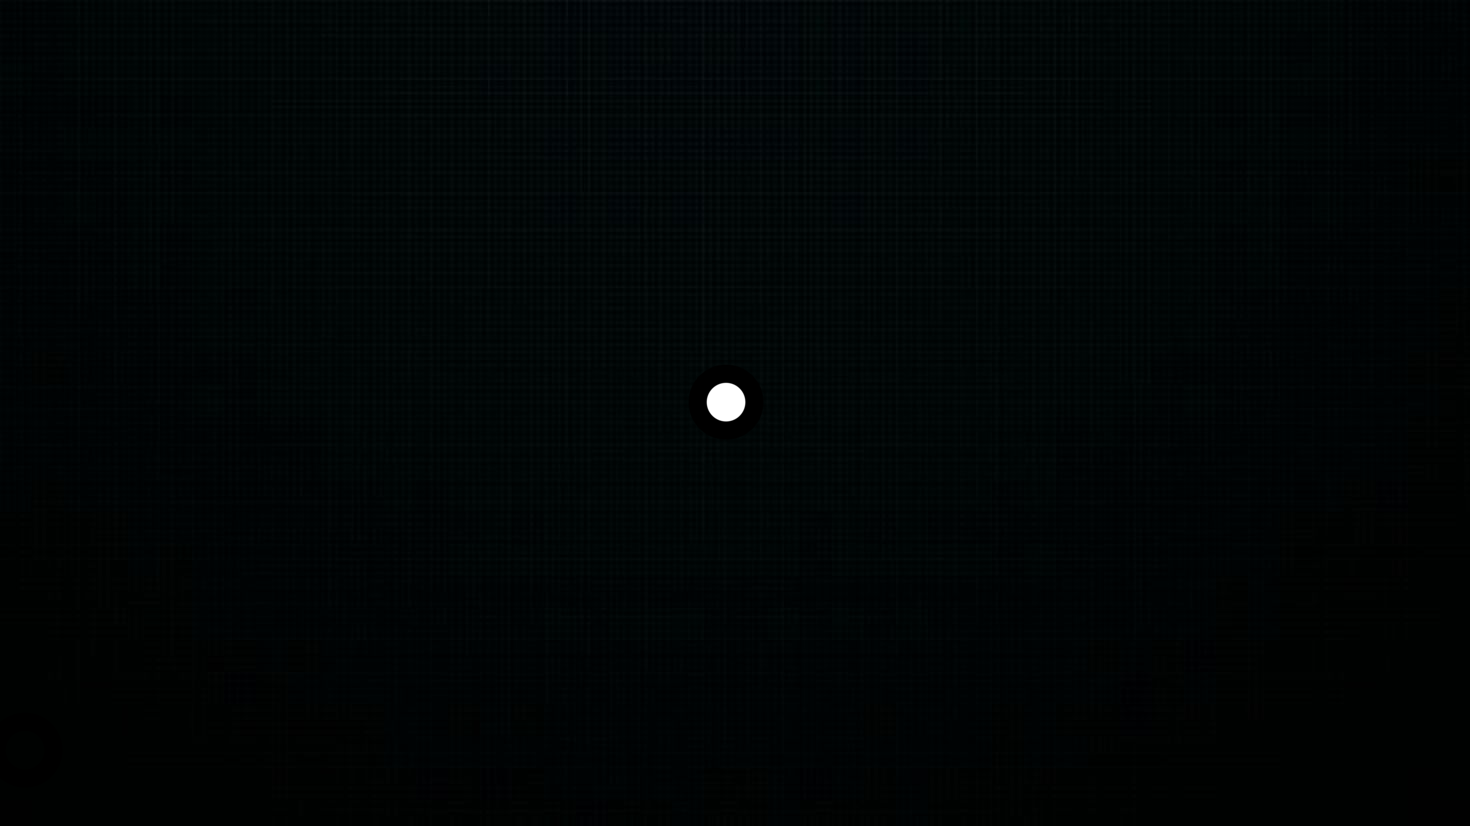
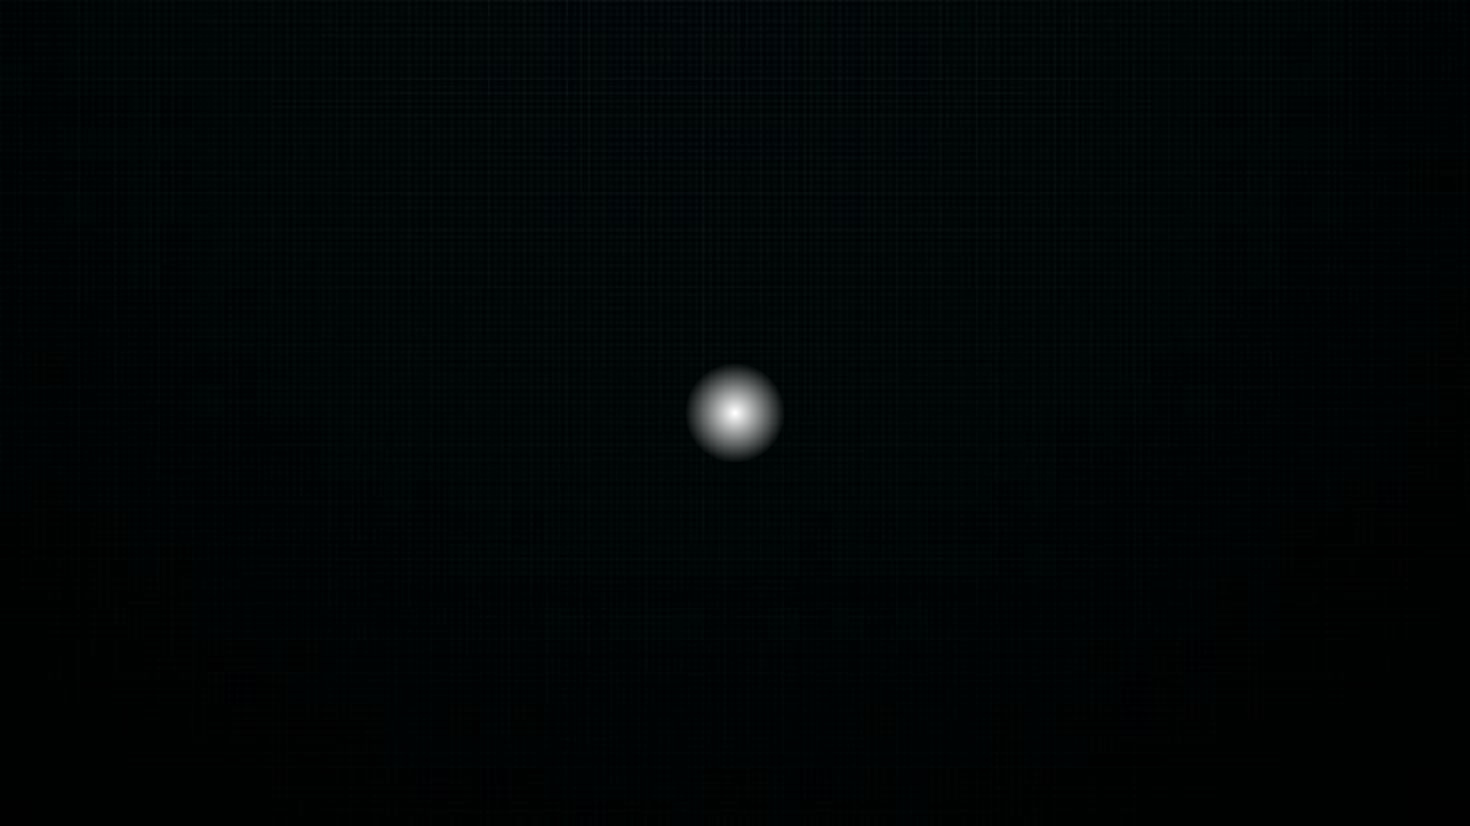
Merge origin/main into main
Conflicts:
	src/pacmanfx/Maze.java
	src/pacmanfx/Model.java

Changed region(s): [[0.4592, 0.4237, 0.551, 0.5751]]

diff --git a/src/pacmanfx/Model.java b/src/pacmanfx/Model.java
@@ -309,7 +309,7 @@ public class Model extends Application {
     }
     
     public void loadImages() {
-        blinded = new Image(getClass().getResourceAsStream("/images/test.png"),4000,4000,false,false);        
+        blinded = new Image(getClass().getResourceAsStream("/images/blinded.png"),4000,2247,false,false);        
         down = new Image(getClass().getResourceAsStream("/images/knightleft.gif"));
         up = new Image(getClass().getResourceAsStream("/images/knightright.gif"));
         left = new Image(getClass().getResourceAsStream("/images/knightleft.gif"));
